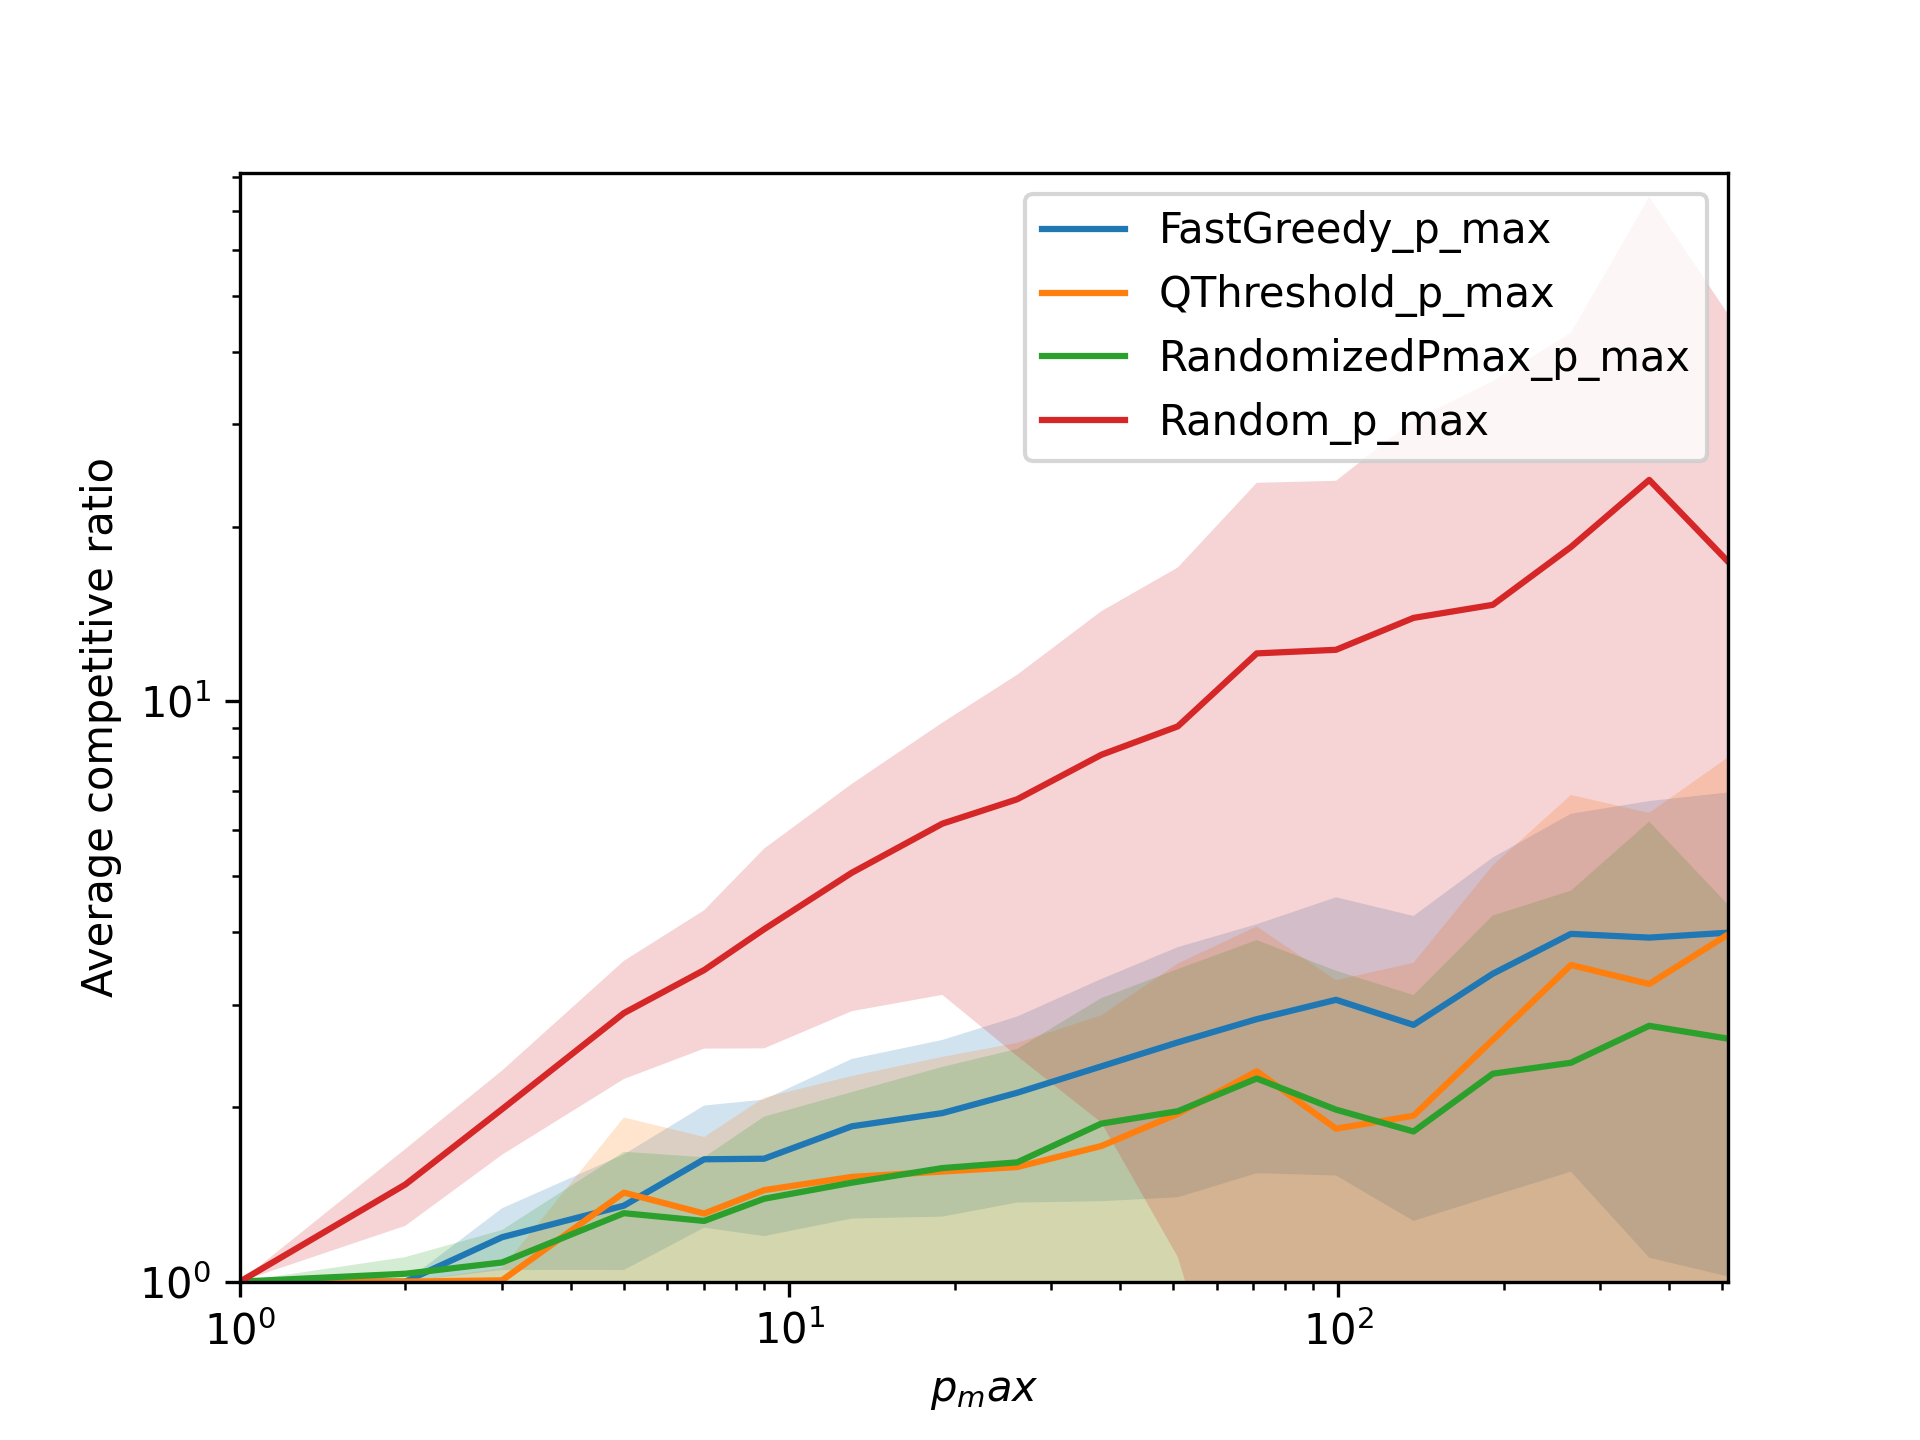
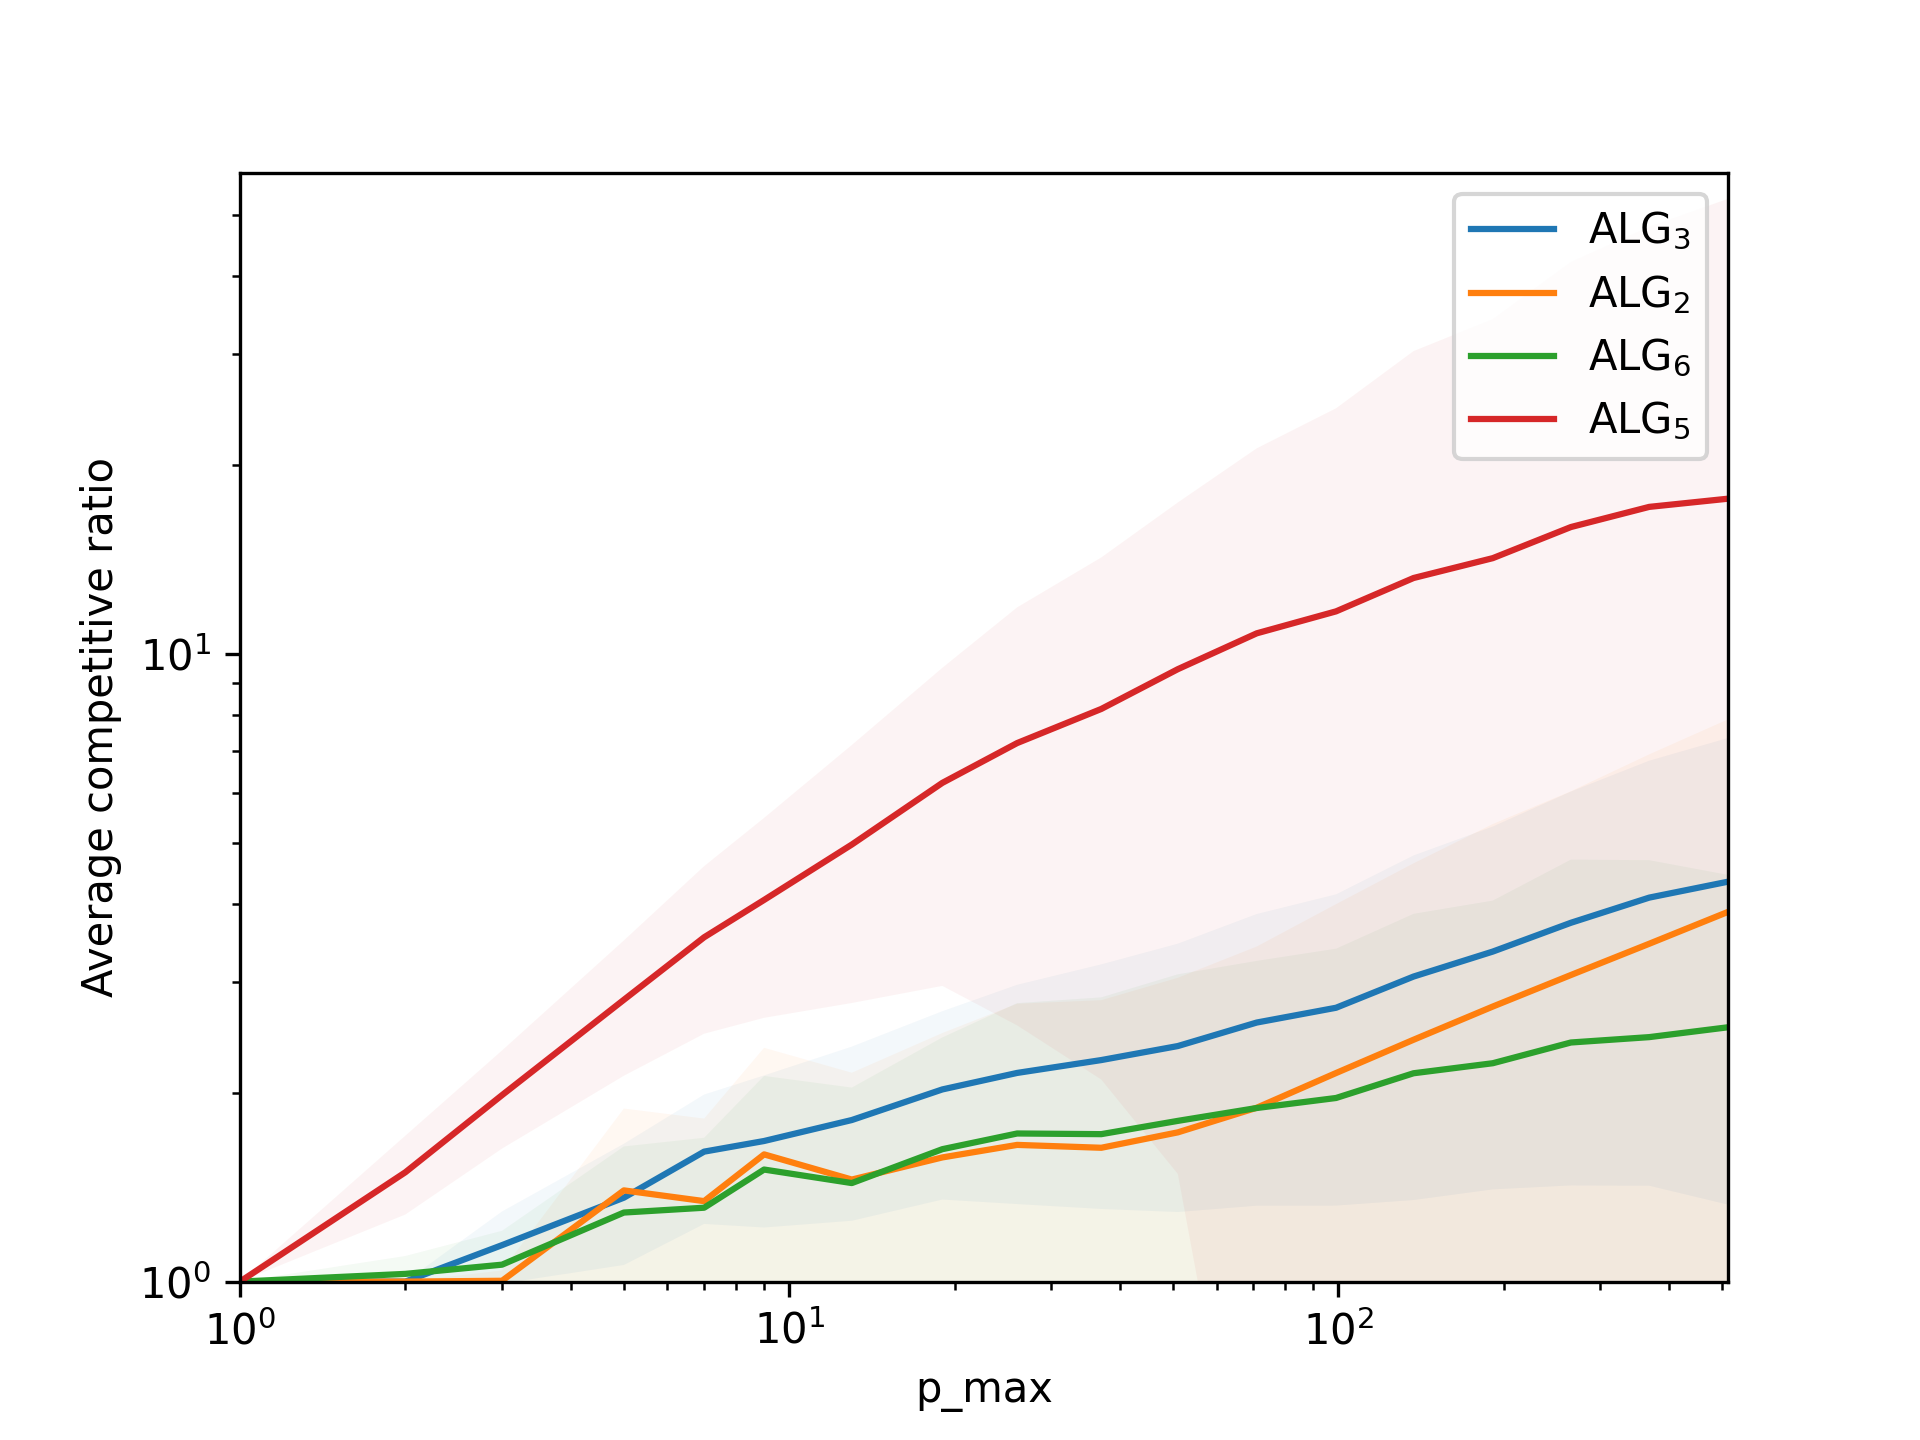
blsa

Changed region(s): [[0.125, 0.125, 0.9062, 0.9062], [0.4688, 0.9375, 0.5312, 1.0], [0.0625, 0.4375, 0.125, 0.5]]

diff --git a/visualize.py b/visualize.py
@@ -2,7 +2,10 @@ import pandas as pd
 import matplotlib.pyplot as plt 
 import os
 
-
+names = {"FastGreedy_m" : "$\mathrm{ALG}_3$", "FastGreedy_n" : "$\mathrm{ALG}_3$", "FastGreedy_p_max" : "$\mathrm{ALG}_3$",
+         "QThreshold_m" : "$\mathrm{ALG}_2$", "QThreshold_n" : "$\mathrm{ALG}_2$", "QThreshold_p_max" : "$\mathrm{ALG}_2$",
+         "Random_m" : "$\mathrm{ALG}_5$", "Random_n" : "$\mathrm{ALG}_5$", "Random_p_max" : "$\mathrm{ALG}_5$",
+         "RandomizedPmax_m" : "$\mathrm{ALG}_6$", "RandomizedPmax_n" : "$\mathrm{ALG}_6$", "RandomizedPmax_p_max" : "$\mathrm{ALG}_6$"}
    
 def plot_means(file_path, param):
     df = pd.read_csv(file_path, delimiter=',', header = 0)[[param,'mean']]
@@ -12,9 +15,10 @@ def plot_means(file_path, param):
     label = file_path.split("/")[1].split(".")[0]
     mean_min_std = means['mean'] - stds['mean']
     mean_plus_std = means['mean'] + stds['mean']
-    plt.plot(means.index, means['mean'], label = label)
-    plt.fill_between(stds.index, mean_min_std, mean_plus_std, alpha=0.2)
-    plt.xlabel(f"${param}$")
+    plt.plot(means.index, means['mean'], label = names[label])
+    plt.fill_between(stds.index, mean_min_std, mean_plus_std, alpha=0.05)
+    if param == 'pmax': plt.xlabel("$p_{\max}")
+    else:  plt.xlabel(f"{param}")
     plt.ylabel("Average competitive ratio")
     plt.xlim(min(means.index), max(means.index))
     plt.ylim(1, 1.1*max(mean_plus_std))
